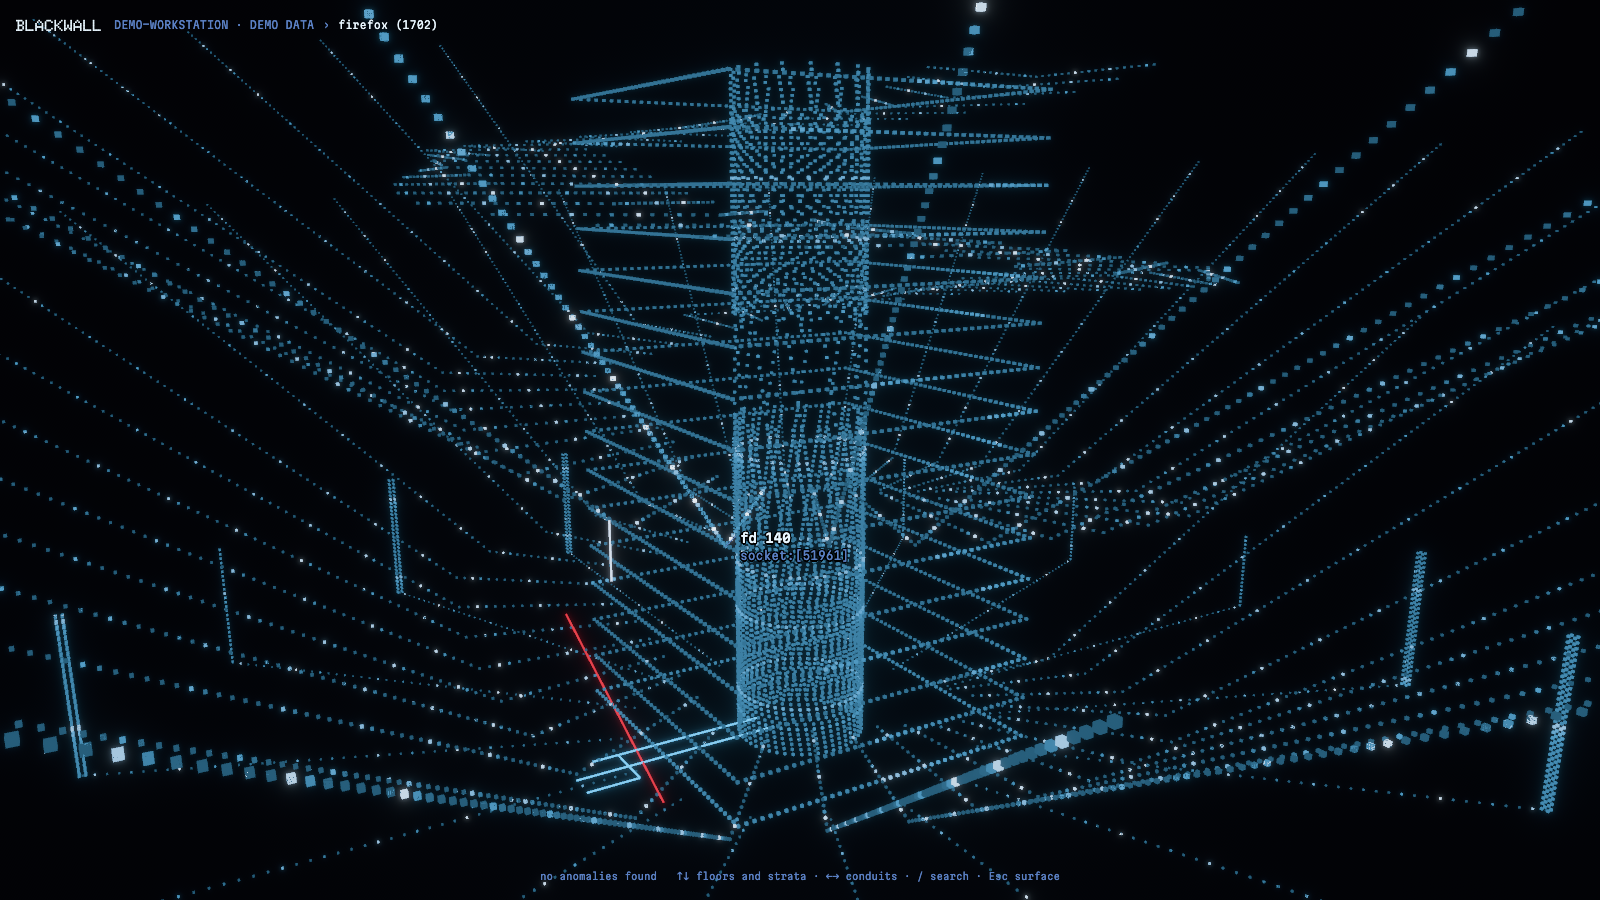
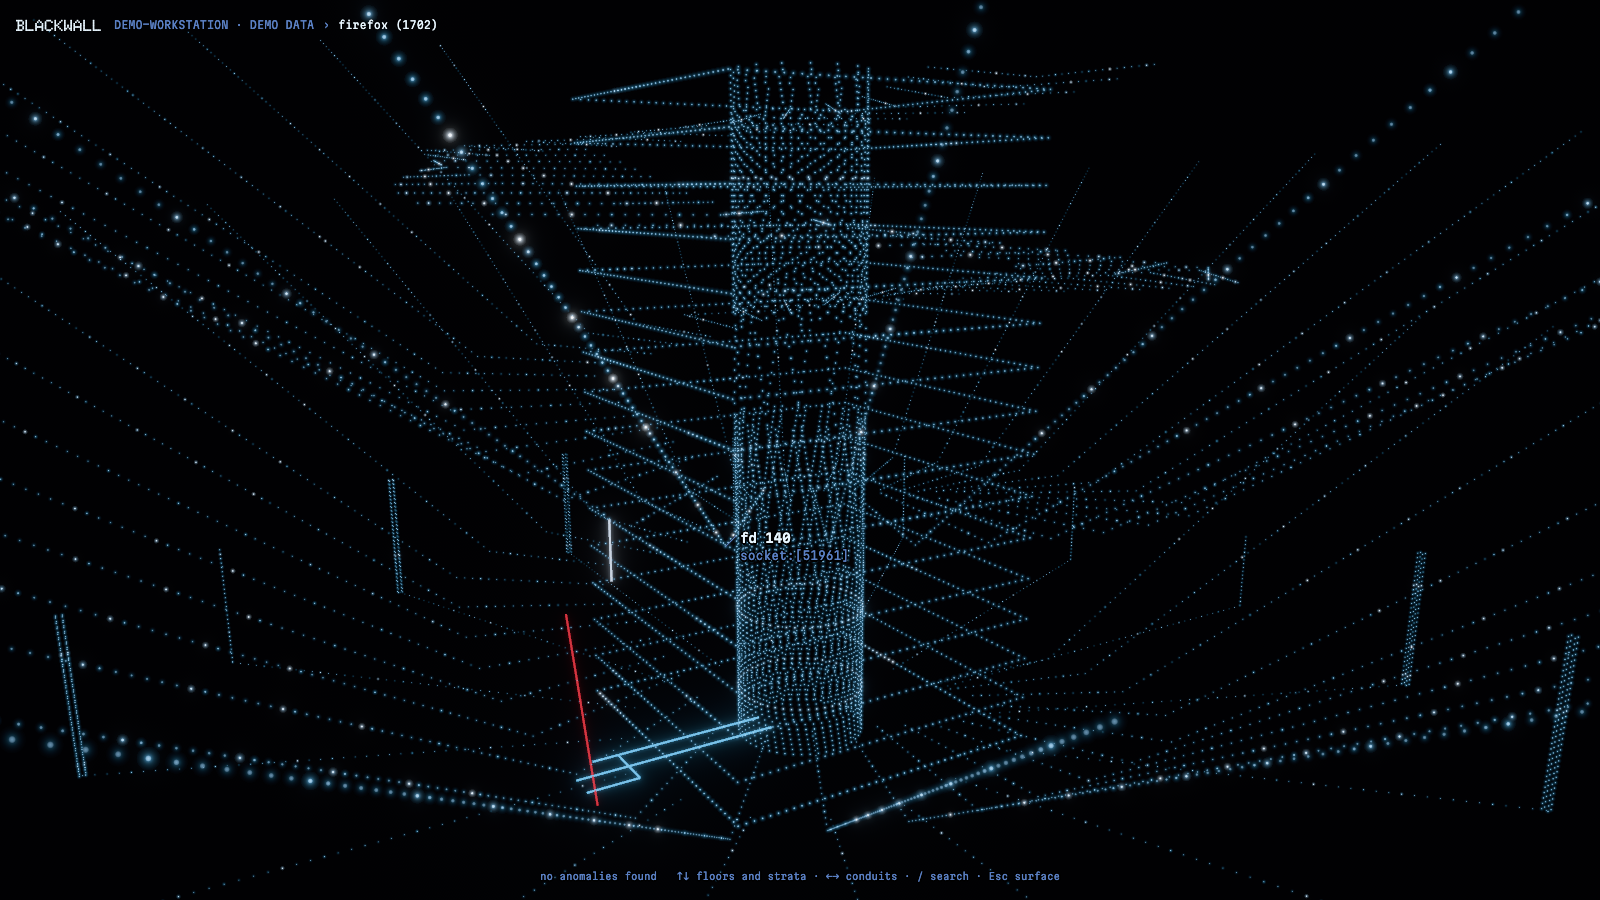
Glowing round dots and stronger neon bloom
Dots are now camera-facing quads drawn as a hot round core inside a soft
halo, blended additively so overlapping light builds up like neon instead
of reading as solid cubes. Bloom is stronger on every tier but thresholded,
so only real light spills and the void stays pure black. Stream particles
are round too. Docs images re-rendered.

Claude-Session: https://claude.ai/code/session_01YNLkPQ2owHnuszWEvpgBHP

diff --git a/crates/bw-scene/src/city.rs b/crates/bw-scene/src/city.rs
@@ -14,9 +14,13 @@ use crate::palette::{self, linear};
 use crate::*;
 use bevy::asset::{RenderAssetUsages, embedded_asset};
 use bevy::camera::visibility::NoFrustumCulling;
-use bevy::mesh::Indices;
+use bevy::mesh::{Indices, MeshVertexBufferLayoutRef};
+use bevy::pbr::{MaterialPipeline, MaterialPipelineKey};
 use bevy::reflect::TypePath;
-use bevy::render::render_resource::{AsBindGroup, PrimitiveTopology, ShaderType};
+use bevy::render::render_resource::{
+    AsBindGroup, PrimitiveTopology, RenderPipelineDescriptor, ShaderType,
+    SpecializedMeshPipelineError,
+};
 use bevy::shader::ShaderRef;
 use bw_model::{Health, Process, Realm};
 
@@ -59,8 +63,27 @@ pub struct DotsMaterial {
 }
 
 impl Material for DotsMaterial {
+    fn vertex_shader() -> ShaderRef {
+        "embedded://bw_scene/shaders/dots.wgsl".into()
+    }
+
     fn fragment_shader() -> ShaderRef {
         "embedded://bw_scene/shaders/dots.wgsl".into()
+    }
+
+    /// Light adds to light: overlapping halos build up like neon.
+    fn alpha_mode(&self) -> AlphaMode {
+        AlphaMode::Add
+    }
+
+    fn specialize(
+        _: &MaterialPipeline,
+        descriptor: &mut RenderPipelineDescriptor,
+        _: &MeshVertexBufferLayoutRef,
+        _: MaterialPipelineKey<Self>,
+    ) -> Result<(), SpecializedMeshPipelineError> {
+        descriptor.primitive.cull_mode = None;
+        Ok(())
     }
 }
 
@@ -97,12 +120,16 @@ const DISSOLVE_SECS: f32 = 1.2;
 /// Upper bound on floor dots; above it each dot stands for more RAM.
 const MAX_FLOOR_DOTS: u64 = 12_000;
 
+/// A dot's quad is this many times its core's half-size: the rest is halo.
+const GLOW: f32 = 4.0;
+
 /// Volume columns get ids above any process column.
 pub const VOLUME_ID_BASE: usize = 1_000_000;
 
 #[derive(Default)]
 pub(crate) struct DotMesh {
     pos: Vec<[f32; 3]>,
+    normal: Vec<[f32; 3]>,
     uv: Vec<[f32; 2]>,
     uv_b: Vec<[f32; 2]>,
     color: Vec<[f32; 4]>,
@@ -110,38 +137,27 @@ pub(crate) struct DotMesh {
 }
 
 impl DotMesh {
-    /// A small axis-aligned cube: the dots are square, like the reference.
-    pub(crate) fn cube(&mut self, c: Vec3, h: f32, uv: [f32; 2], uv_b: [f32; 2], color: [f32; 4]) {
+    /// One point of light: a camera-facing quad that `dots.wgsl` turns into
+    /// a hot round core inside a soft halo. All four corners share the dot's
+    /// center; the normal carries the corner and the quad's half-size, and the
+    /// vertex shader spreads them out to face the camera.
+    pub(crate) fn dot(&mut self, c: Vec3, h: f32, uv: [f32; 2], uv_b: [f32; 2], color: [f32; 4]) {
         let base = self.pos.len() as u32;
-        for i in 0..8 {
-            let o = Vec3::new(
-                if i & 1 == 0 { -h } else { h },
-                if i & 2 == 0 { -h } else { h },
-                if i & 4 == 0 { -h } else { h },
-            );
-            self.pos.push((c + o).to_array());
+        let size = h * GLOW;
+        for (x, y) in [(-1.0, -1.0), (1.0, -1.0), (1.0, 1.0), (-1.0, 1.0)] {
+            self.pos.push(c.to_array());
+            self.normal.push([x, y, size]);
             self.uv.push(uv);
             self.uv_b.push(uv_b);
             self.color.push(color);
         }
-        const F: [[u32; 4]; 6] = [
-            [0, 2, 3, 1],
-            [4, 5, 7, 6],
-            [0, 1, 5, 4],
-            [2, 6, 7, 3],
-            [0, 4, 6, 2],
-            [1, 3, 7, 5],
-        ];
-        for f in F {
-            self.idx
-                .extend([f[0], f[1], f[2], f[0], f[2], f[3]].map(|v| base + v));
-        }
+        self.idx.extend([0, 1, 2, 0, 2, 3].map(|v| base + v));
     }
 
     pub(crate) fn into_mesh(mut self) -> Mesh {
         // Never upload an empty mesh: park one dot far below the floor.
         if self.pos.is_empty() {
-            self.cube(
+            self.dot(
                 Vec3::new(0.0, -1000.0, 0.0),
                 0.01,
                 [0.0, 0.0],
@@ -154,6 +170,7 @@ impl DotMesh {
             RenderAssetUsages::default(),
         )
         .with_inserted_attribute(Mesh::ATTRIBUTE_POSITION, self.pos)
+        .with_inserted_attribute(Mesh::ATTRIBUTE_NORMAL, self.normal)
         .with_inserted_attribute(Mesh::ATTRIBUTE_UV_0, self.uv)
         .with_inserted_attribute(Mesh::ATTRIBUTE_UV_1, self.uv_b)
         .with_inserted_attribute(Mesh::ATTRIBUTE_COLOR, self.color)
@@ -214,7 +231,7 @@ fn column_dots(
                     level as f32 * LEVEL_H + half,
                     (fz as f32 - (fp - 1) as f32 / 2.0) * spacing,
                 );
-                m.cube(
+                m.dot(
                     c.base + off,
                     half,
                     [cpu, hfrac],
@@ -320,7 +337,7 @@ fn rebuild_city(
                         fz as f32 * 0.2,
                     );
                     let lit = if level < used { 1.0 } else { 0.0 };
-                    dm.cube(
+                    dm.dot(
                         base + off,
                         0.045,
                         [lit, 0.0],
@@ -398,7 +415,7 @@ fn rebuild_floor(
     let mut dm = DotMesh::default();
     for (i, p) in pts.iter().enumerate() {
         let rank = (i as f32 + 0.5) / n as f32;
-        dm.cube(
+        dm.dot(
             Vec3::new(p.x, -0.02, p.y),
             0.022,
             [rank, 0.0],
@@ -514,7 +531,7 @@ pub(crate) fn interior_mesh(
                             y,
                             ang.sin() * interior::CORE_R,
                         );
-                        m.cube(
+                        m.dot(
                             pos,
                             0.045,
                             [0.12, lv as f32 / levels as f32],
@@ -537,12 +554,12 @@ pub(crate) fn interior_mesh(
                     Vec3::new(-h, y, -h),
                 ];
                 interior::along(&corners, 0.3, |p, u| {
-                    m.cube(p, 0.05, [cpu, u], [id, kind], col)
+                    m.dot(p, 0.05, [cpu, u], [id, kind], col)
                 });
             }
             ElementKind::Conduit { .. } => {
                 interior::along(&e.path, 0.32, |p, u| {
-                    m.cube(p, 0.035, [0.3, u], [id, KIND_FLOW], col)
+                    m.dot(p, 0.035, [0.3, u], [id, KIND_FLOW], col)
                 });
             }
             ElementKind::Satellite { child } => {
@@ -559,7 +576,7 @@ pub(crate) fn interior_mesh(
                     column_dots(&mut m, ELEMENT_ID_BASE + i, &column, crgb, ckind, cpu, b);
                 }
                 interior::along(&e.path, 0.4, |p, u| {
-                    m.cube(p, 0.03, [0.1, u], [id, KIND_FLOW], col)
+                    m.dot(p, 0.03, [0.1, u], [id, KIND_FLOW], col)
                 });
             }
         }

diff --git a/crates/bw-scene/src/quality.rs b/crates/bw-scene/src/quality.rs
@@ -5,7 +5,7 @@
 //! forced from the command line or settings disables the governor.
 
 use crate::camera::MainCamera;
-use bevy::post_process::bloom::Bloom;
+use bevy::post_process::bloom::{Bloom, BloomPrefilter};
 use bevy::prelude::*;
 use bevy::render::renderer::RenderAdapterInfo;
 use bevy::render::view::Msaa;
@@ -49,7 +49,7 @@ impl Tier {
     }
 
     fn bloom(self) -> Option<f32> {
-        [None, Some(0.12), Some(0.16), Some(0.2)][self as usize]
+        [None, Some(0.3), Some(0.38), Some(0.45)][self as usize]
     }
 
     fn msaa(self) -> Msaa {
@@ -218,6 +218,13 @@ fn apply(
         Some(intensity) => {
             commands.entity(cam).insert(Bloom {
                 intensity,
+                // Only real light blooms, so the void stays pure black while
+                // the bright dots spill neon around them.
+                low_frequency_boost: 0.55,
+                prefilter: BloomPrefilter {
+                    threshold: 0.55,
+                    threshold_softness: 0.4,
+                },
                 ..Bloom::NATURAL
             });
         }

diff --git a/crates/bw-scene/src/streams.rs b/crates/bw-scene/src/streams.rs
@@ -85,7 +85,7 @@ fn setup(
     mut mats: ResMut<Assets<StandardMaterial>>,
     quality: Res<Quality>,
 ) {
-    let mesh = meshes.add(Cuboid::from_length(1.0));
+    let mesh = meshes.add(Sphere::new(0.5).mesh().ico(1).unwrap());
     let ok = emissive(&mut mats, health_color(Health::Healthy, Realm::User), 6.0);
     let bad = emissive(&mut mats, health_color(Health::Critical, Realm::User), 8.0);
     for i in 0..quality.tier.particle_budget() {
